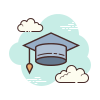
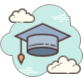
update UI version 3

diff --git a/src/main/webapp/WEB-INF/resources/assets/js/import/register.js b/src/main/webapp/WEB-INF/resources/assets/js/import/register.js
@@ -1,0 +1,29 @@
+const input = document.querySelector(".input");
+const eyeOpen = document.querySelector(".eye-open");
+const eyeClose = document.querySelector(".eye-close");
+eyeOpen.addEventListener("click", function () {
+	eyeOpen.classList.add("hidden");
+	eyeClose.classList.remove("hidden");
+	input.setAttribute("type","password");
+});
+
+eyeClose.addEventListener("click", function () {
+	eyeOpen.classList.remove("hidden");
+	eyeClose.classList.add("hidden");
+	input.setAttribute("type","text");
+});
+
+const input_Cf = document.querySelector(".input-cf");
+const eyeOpen_Cf = document.querySelector(".eye-open-cf");
+const eyeClose_Cf = document.querySelector(".eye-close-cf");
+eyeOpen_Cf.addEventListener("click", function () {
+	eyeOpen_Cf.classList.add("hidden");
+	eyeClose_Cf.classList.remove("hidden");
+	input_Cf.setAttribute("type","password");
+});
+
+eyeClose_Cf.addEventListener("click", function () {
+	eyeOpen_Cf.classList.remove("hidden");
+	eyeClose_Cf.classList.add("hidden");
+	input_Cf.setAttribute("type","text");
+});

diff --git a/src/main/webapp/WEB-INF/resources/assets/css/import/register.css b/src/main/webapp/WEB-INF/resources/assets/css/import/register.css
@@ -151,7 +151,7 @@ body {
 	bottom: -100%;}50%,100%{bottom:100%;}}.login-box .user-checkbox {
 	color: #fff;}
 img {
-	margin-top: 30px;
-	margin-left: 40px;
-	height: 80px;
+    margin-top: -23px;
+    margin-left: -16px;
+    height: 65px;
 }

diff --git a/src/main/webapp/WEB-INF/resources/assets/css/import/loginUser.css b/src/main/webapp/WEB-INF/resources/assets/css/import/loginUser.css
@@ -201,3 +201,9 @@ img {
     margin-left: -16px;
     height: 65px;
 }
+span.icon-graduation {
+    font-size: 3.5em;
+    margin-top: 0px;
+    background: url(../../images/tot_nghiep.png) no-repeat left;
+    padding: 10px 52px;
+}
